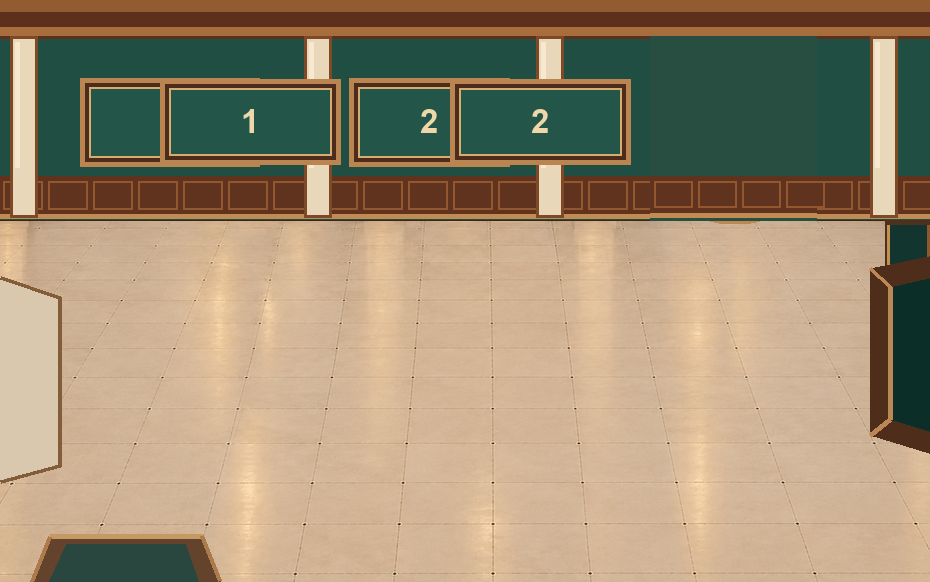
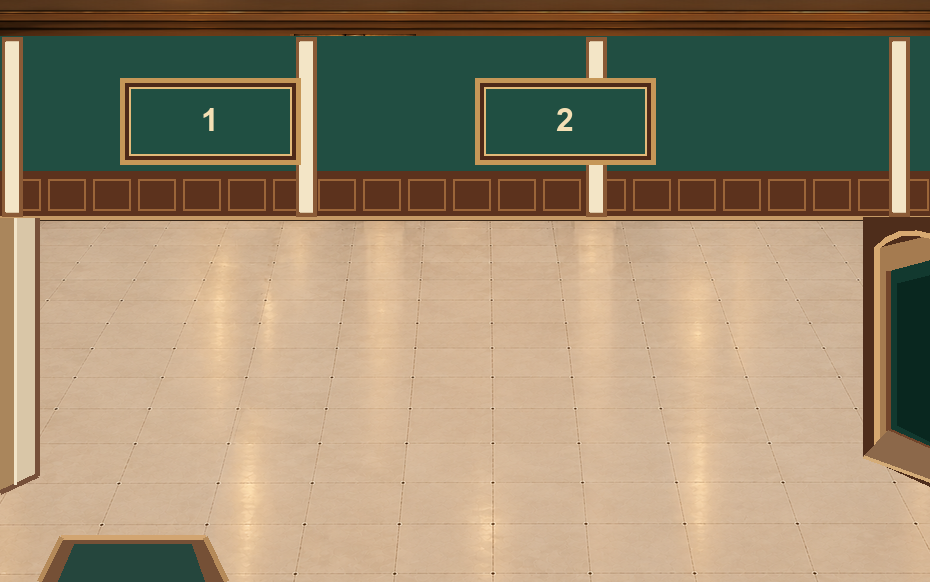
fix(a18): clarify gallery3 side walls and east passage

diff --git a/qa/gallery3_edges_c.py b/qa/gallery3_edges_c.py
@@ -1,0 +1,54 @@
+from PIL import Image,ImageDraw,ImageFont
+from pathlib import Path
+import json
+root=Path(__file__).resolve().parents[1]; f=root/'rooms/gallery3'
+base=Image.open(root/'rooms/gallery1/architecture.png').convert('RGB')
+im=base.copy(); d=ImageDraw.Draw(im)
+# Rebuild rear wall rather than stacking frames over the gallery2 architecture.
+d.rectangle((0,36,929,218),fill='#214e42')
+d.rectangle((0,171,929,218),fill='#5c321d')
+for x in range(0,930,45):
+ d.rectangle((x+3,179,min(928,x+40),210),outline='#9b6539',width=2)
+d.line((0,217,929,217),fill='#c69a66',width=4)
+for x in (12,306,596,899):
+ d.rectangle((x-10,37,x+10,216),fill='#d9c4a3',outline='#8a5a36',width=4)
+ d.rectangle((x-7,42,x+6,211),fill='#f3e5c6')
+font=ImageFont.truetype('C:/Windows/Fonts/arialbd.ttf',32)
+for n,x in [(1,120),(2,475)]:
+ w=180
+ d.rectangle((x,78,x+w,164),fill='#4e2918',outline='#c69758',width=5)
+ d.rectangle((x+9,87,x+w-9,155),fill='#204f42',outline='#e3ba79',width=2)
+ d.text((x+w/2,120),str(n),font=font,anchor='mm',fill='#f4dfb4')
+# Left edge: continuous solid architectural wall and trim, no false portal.
+d.polygon([(0,218),(37,218),(37,475),(0,492)],fill='#d9c6a7')
+d.polygon([(0,218),(13,218),(13,488),(0,492)],fill='#aa865c')
+d.line([(37,218),(37,475),(0,492)],fill='#765039',width=5)
+d.line([(15,218),(15,484)],fill='#f2e4c8',width=3)
+# South entrance: open floor channel on the near-left, not an upright doorway.
+d.polygon([(61,537),(205,537),(226,581),(39,581)],fill='#755036')
+d.polygon([(74,544),(191,544),(204,581),(58,581)],fill='#25463d')
+d.line([(61,537),(205,537)],fill='#d2a571',width=5)
+d.line([(39,581),(61,537)],fill='#b58a59',width=5)
+d.line([(226,581),(205,537)],fill='#b58a59',width=5)
+# Right edge: distinct full-height wall with arched doorway and visible inner wall thickness.
+d.polygon([(863,217),(929,217),(929,486),(863,456)],fill='#4e2d1b')
+d.polygon([(876,248),(929,235),(929,466),(876,444)],fill='#a57b50')
+d.polygon([(888,271),(929,260),(929,448),(888,430)],fill='#12392f')
+d.polygon([(897,283),(929,275),(929,441),(897,425)],fill='#09271f')
+d.line([(876,248),(886,239),(899,233),(915,232),(929,235)],fill='#d7a971',width=6)
+d.line([(876,248),(876,444),(929,466)],fill='#d7a971',width=6)
+d.line([(888,271),(888,430),(929,448)],fill='#72452b',width=5)
+d.polygon([(888,430),(929,448),(929,480),(863,456)],fill='#8c684a')
+d.line([(863,456),(929,480)],fill='#d4ac78',width=4)
+im.save(f/'architecture.png')
+room=json.loads((f/'room.json').read_text(encoding='utf-8'))
+room['subtitle']='C concept - clear closed west wall and east arched exit'
+room['layoutRevision']='gallery3-concept-C-20261028'
+room['notes']='B display wall coordinates unchanged. West edge is solid; south entrance at lower left; east arched passage to gallery5 at right. No collision QA.'
+(f/'room.json').write_text(json.dumps(room,ensure_ascii=True,indent=2)+'\n',encoding='utf-8')
+out=im.convert('RGBA')
+for o in room['objects']:
+ r=o['rect'];a=Image.open(root/o['image']).convert('RGBA').resize((r['w'],r['h']))
+ out.alpha_composite(a,(r['x'],r['y']))
+out.save(f/'gallery3_concept_C.png')
+print('Gallery3 C: rebuilt background, unchanged object coordinates',out.size)
